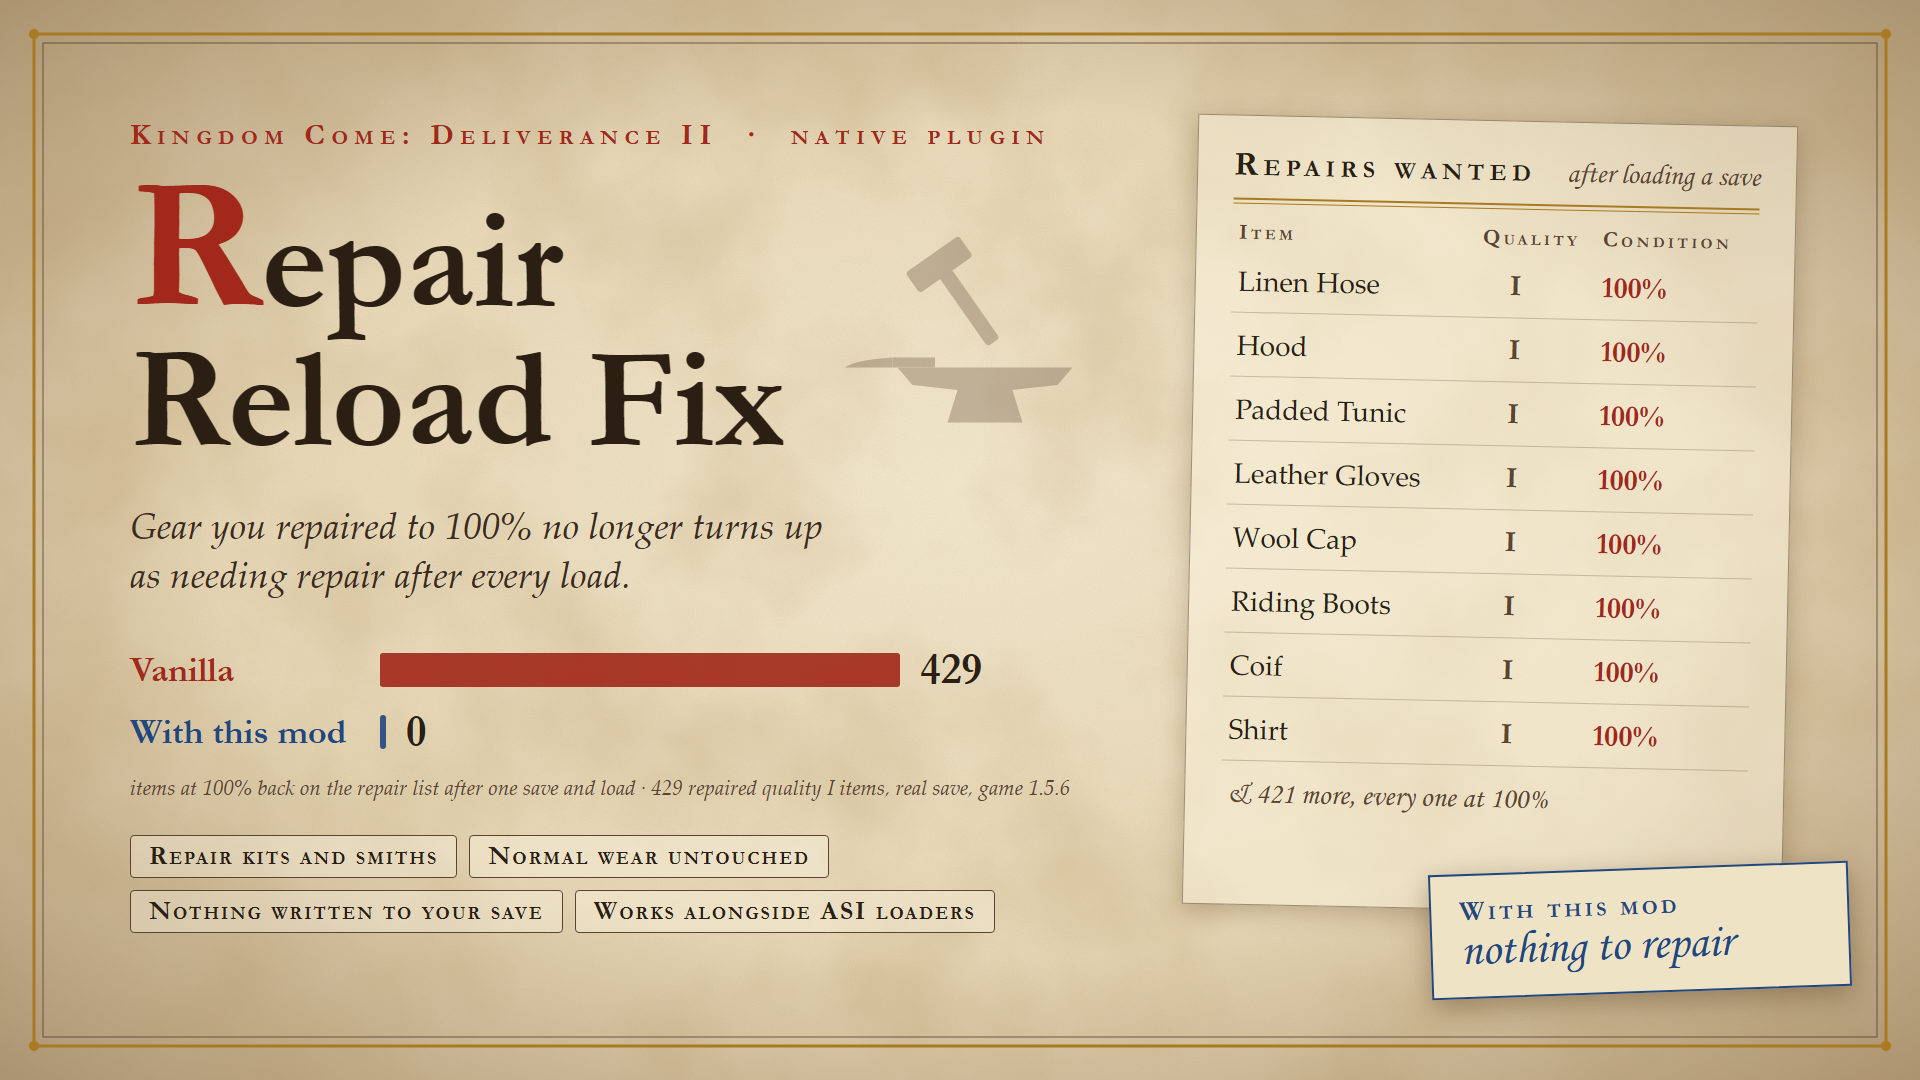
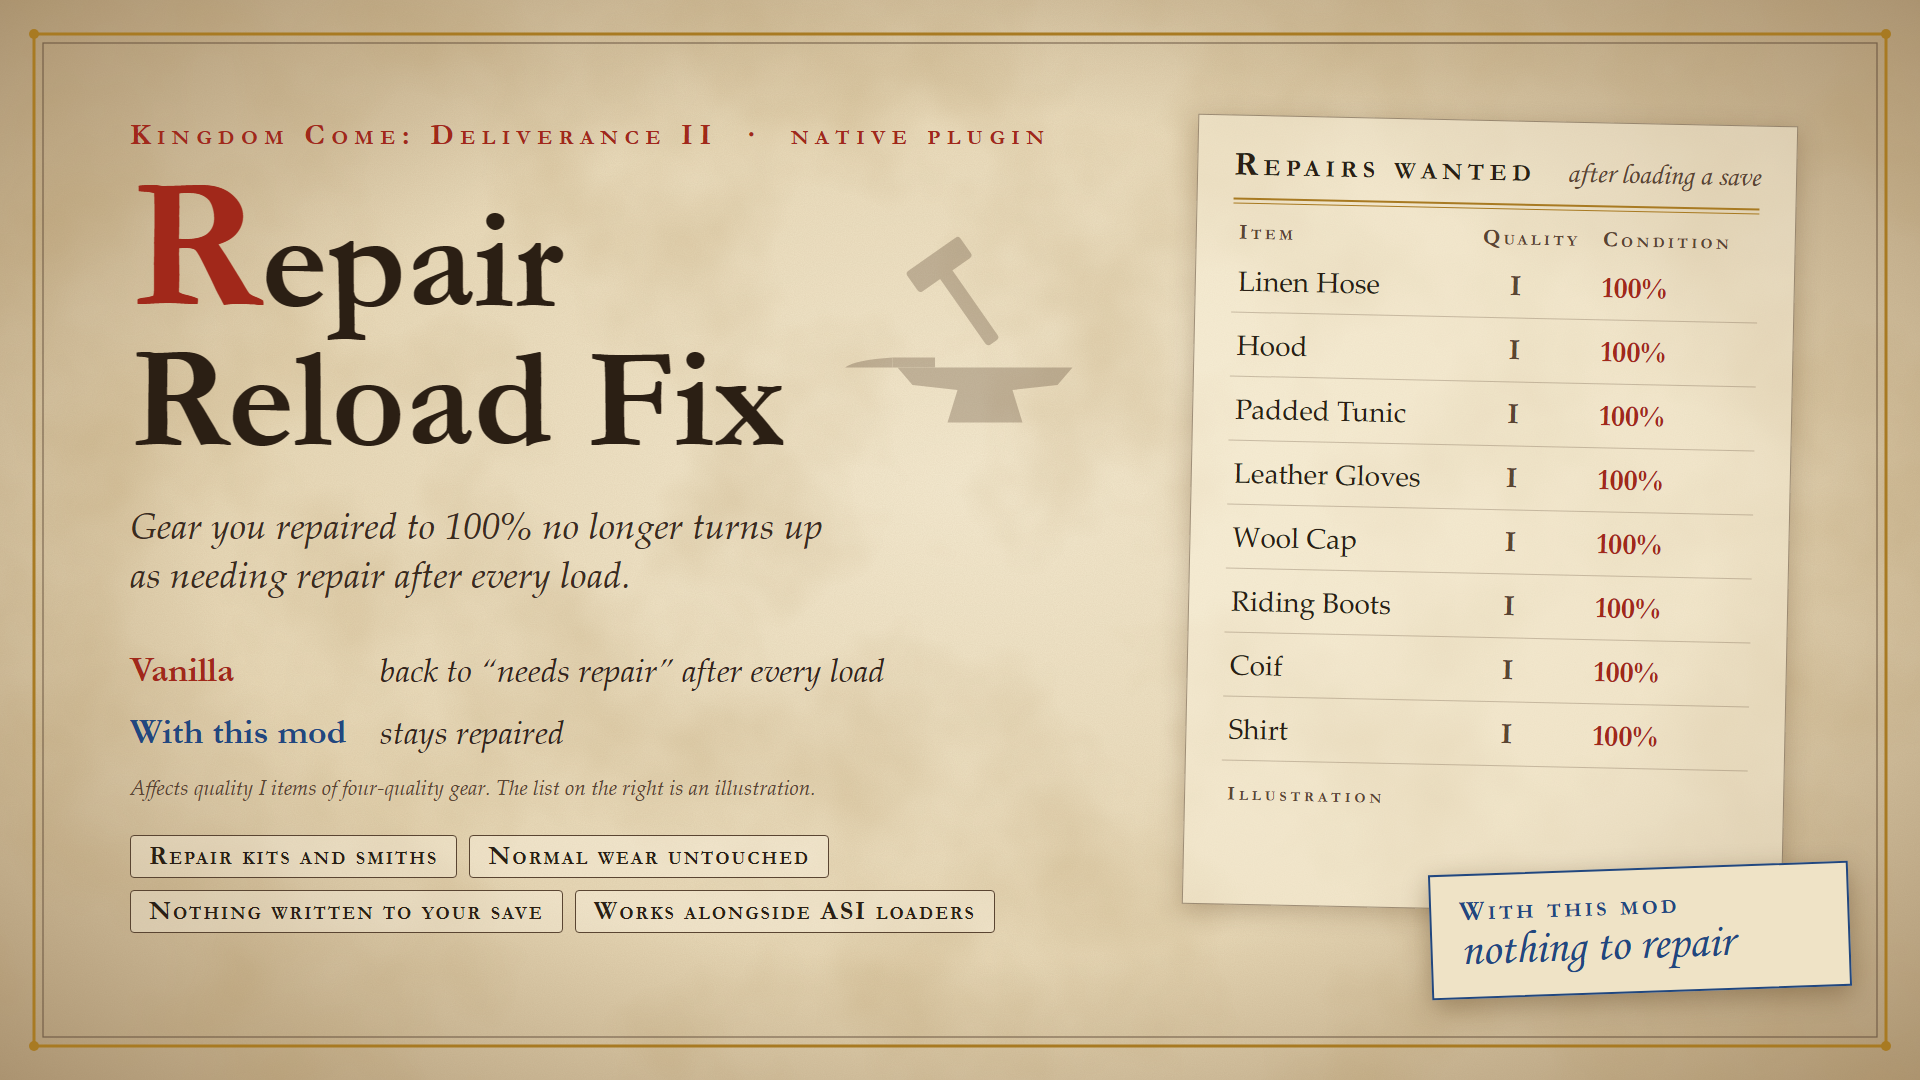
Update the hero image

Changed region(s): [[0.1875, 0.5806, 0.5312, 0.6417], [0.0625, 0.6722, 0.5312, 0.7639], [0.6562, 0.7333, 0.8125, 0.7639]]

diff --git a/README.md b/README.md
@@ -4,7 +4,7 @@
 <a href="LICENSE"><img src="https://img.shields.io/github/license/quoteproxy/RepairReloadFix" alt="MIT license"></a>
 <a href="https://buymeacoffee.com/quoteproxy"><img src="https://img.shields.io/badge/Buy_me_a_coffee-FFDD00?logo=buymeacoffee&logoColor=000" alt="Support on Buy Me a Coffee"></a>
 
-![A smith's ledger after loading a save: eight quality I items, every one at 100%, still listed as repairs wanted. In vanilla 429 repaired items came back to the repair list after one save and load; with Repair Reload Fix, none](docs/images/hero.png)
+![Illustration of a smith's ledger after loading a save: quality I items at 100% still listed as repairs wanted. In vanilla, repaired gear comes back as needing repair after every load; with Repair Reload Fix it stays repaired](docs/images/hero.png)
 
 A native plugin for Kingdom Come: Deliverance II. In vanilla, gear you repaired to 100 % comes back as "needs
 repair" after every load: repair kits and the repair lists of smiths, armourers and tailors offer it again, even
